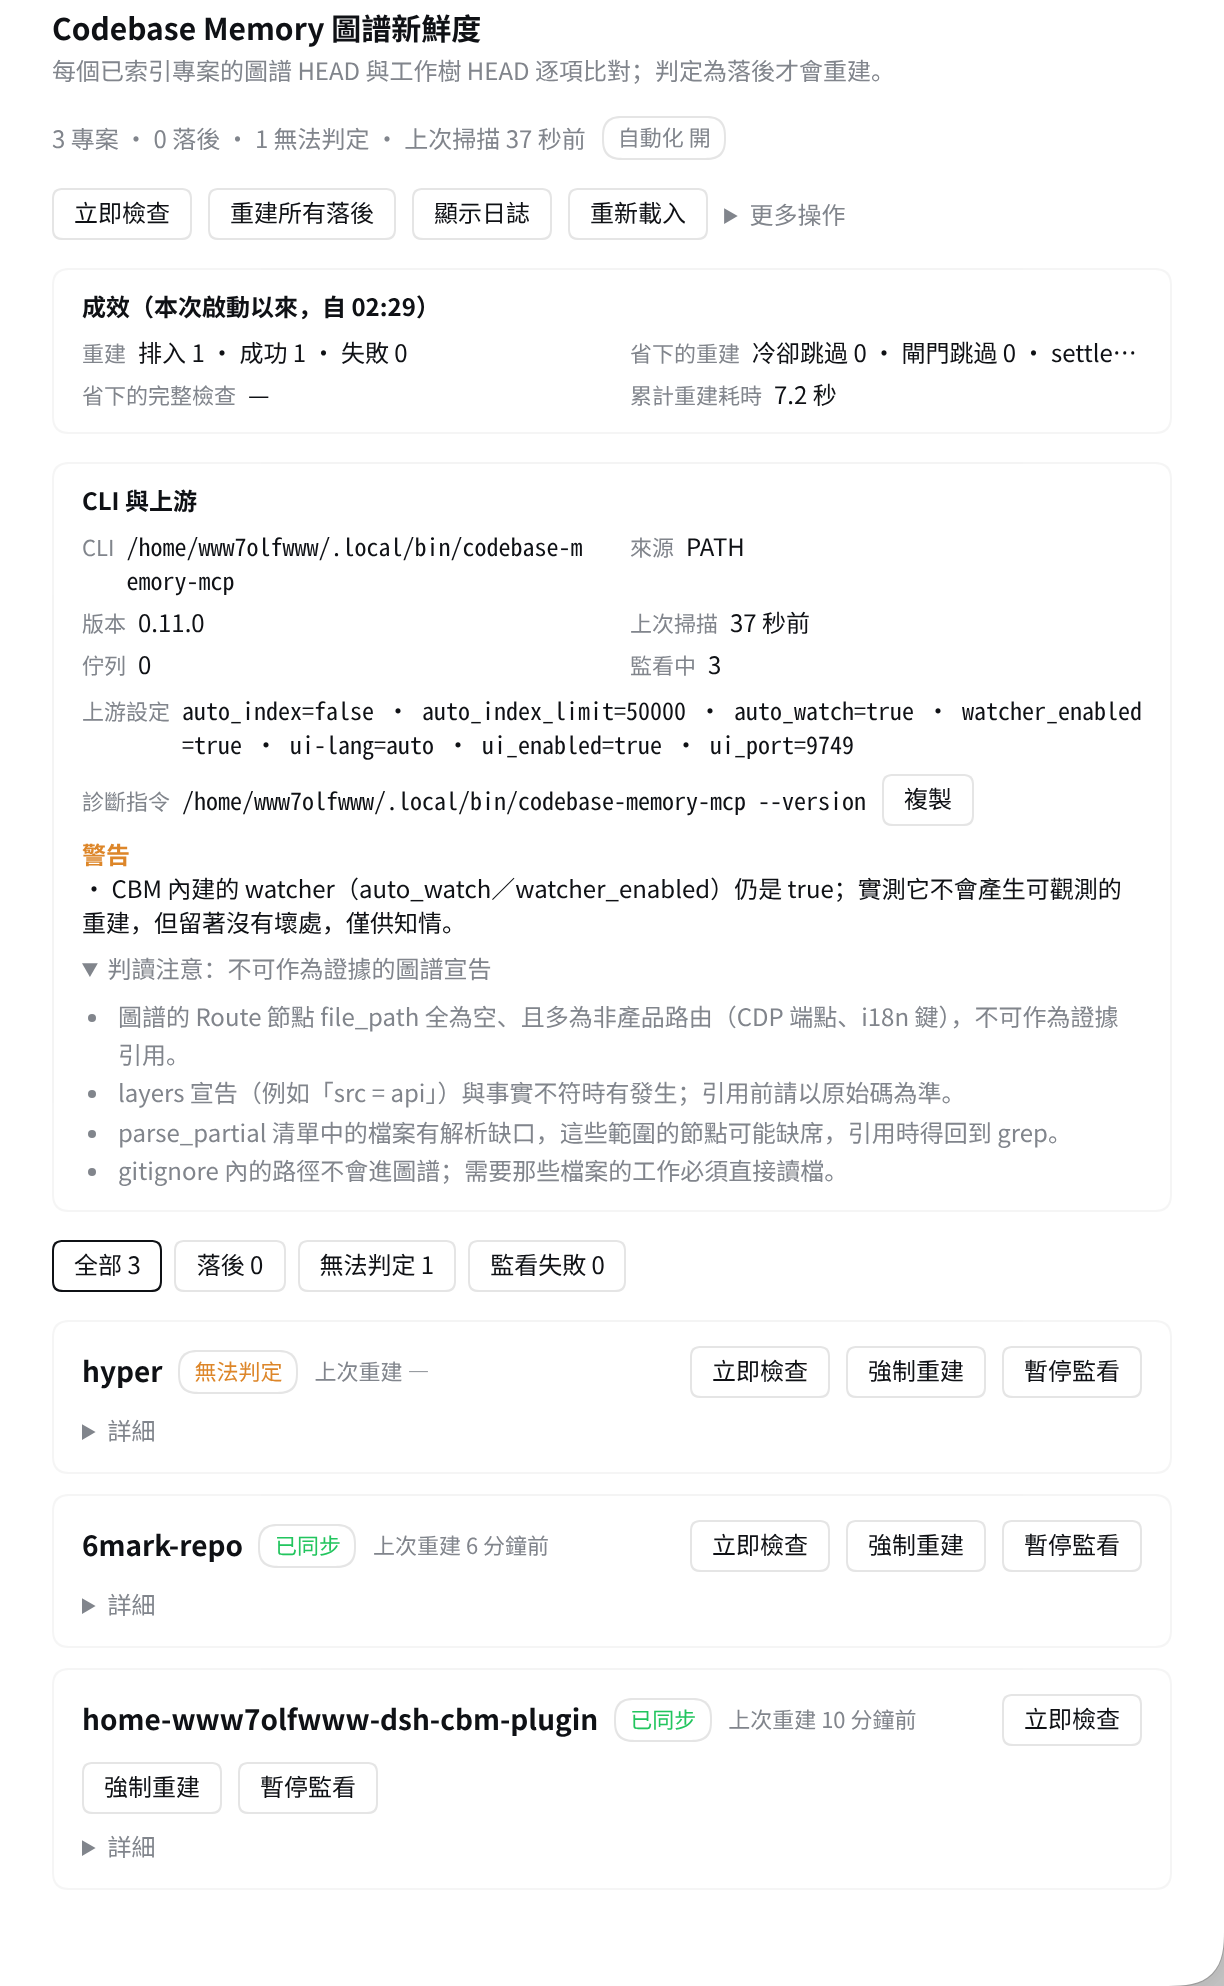
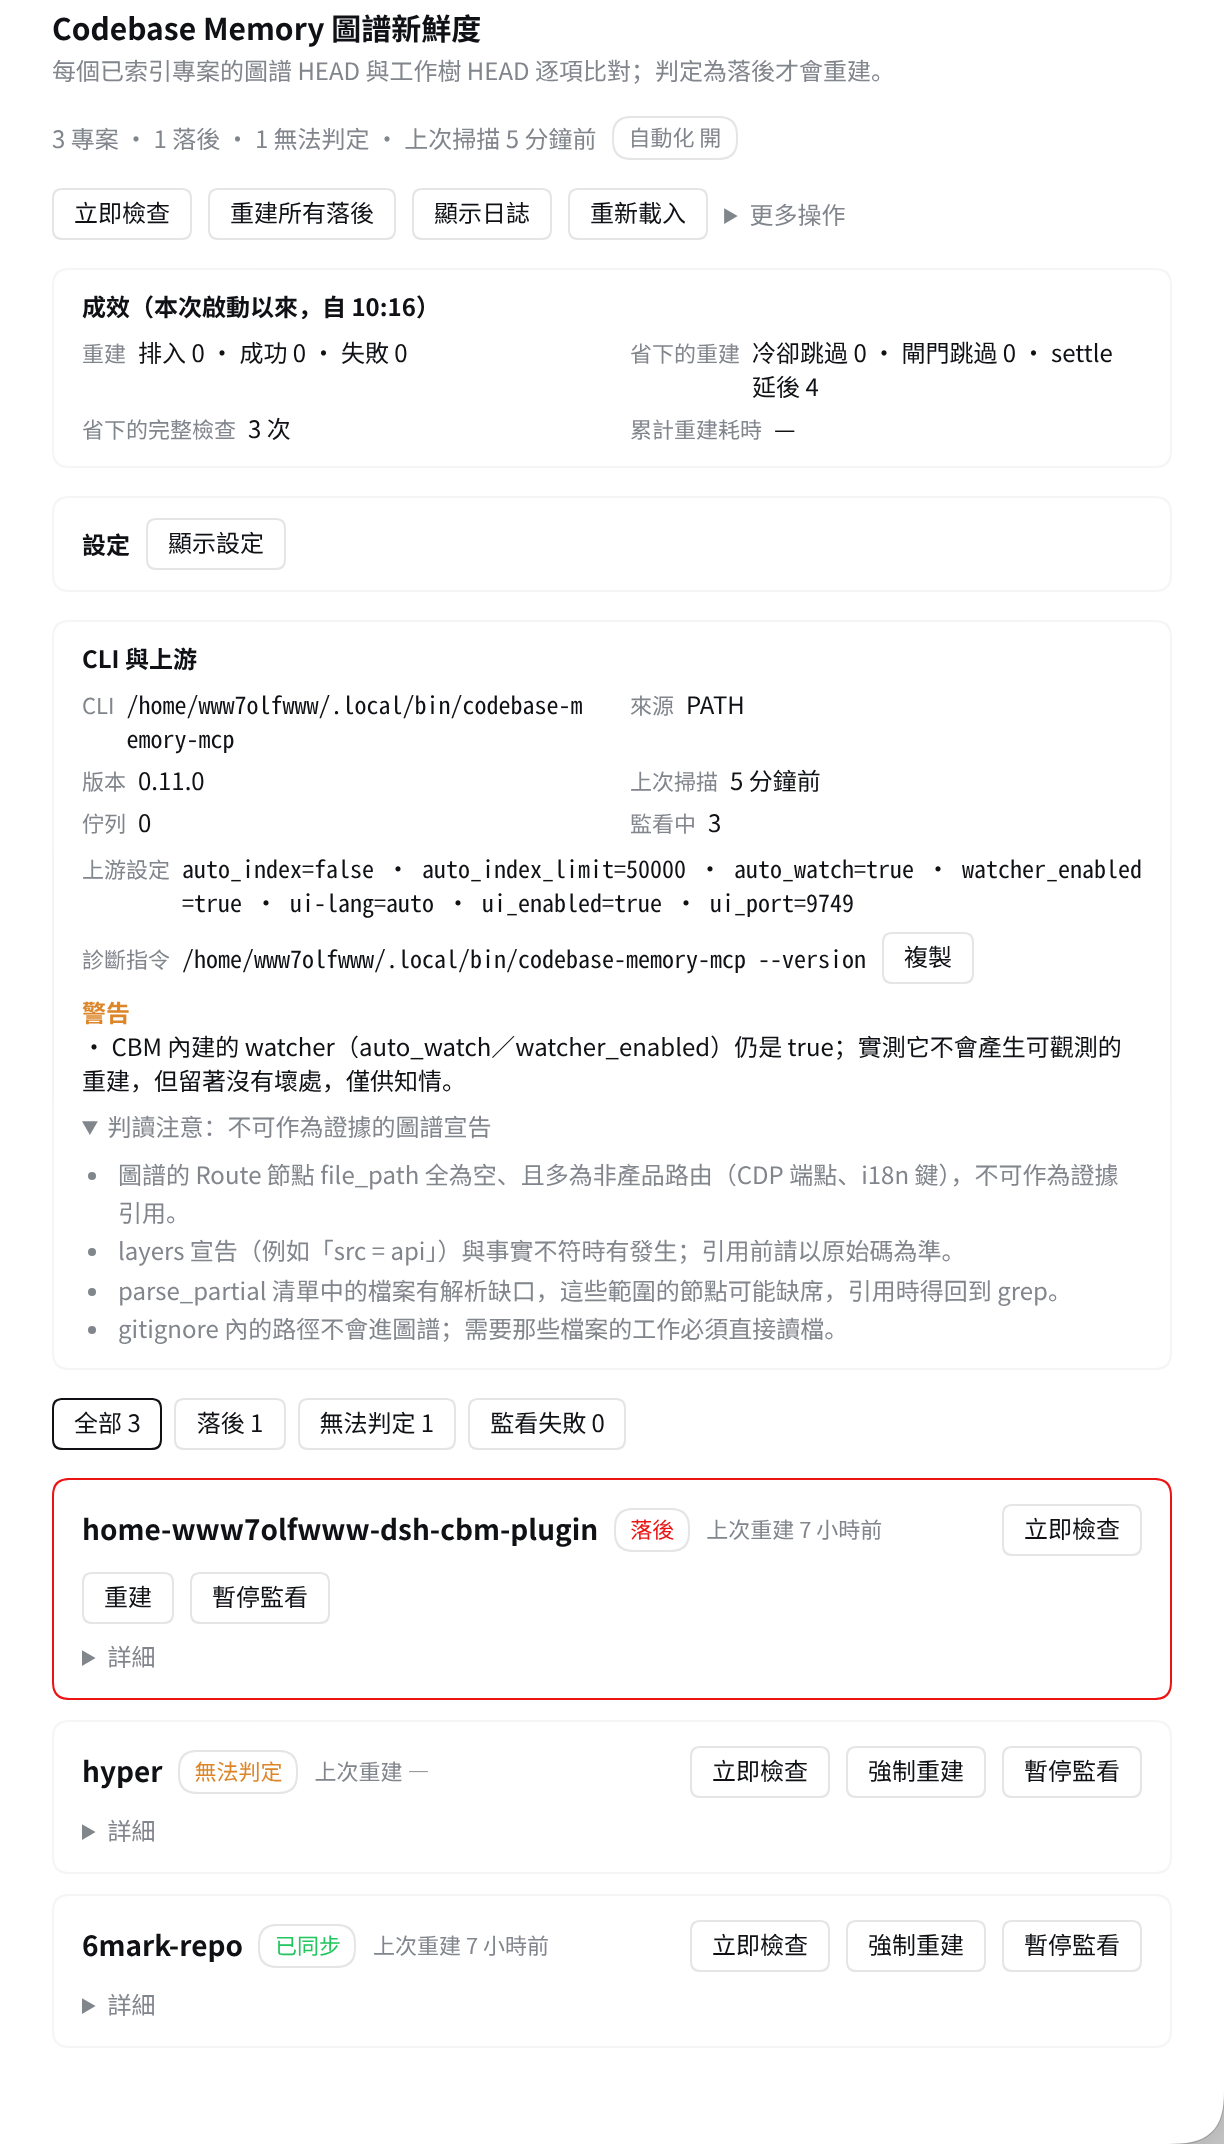
release: 0.5.1 — 設定區塊的說明指出「去哪裡改」，並補上展開狀態的截圖
使用者實際回報了可發現性缺陷：卡片寫「要改值請用 DSH 的插件設定表單」，卻沒說那個
表單在哪，他直接問「那麼是要到哪里修改」。位置改為指明路徑（側邊欄「插件」→
本插件那一列的設定），並在 CHANGELOG 記下查證依據（線上 Config 條目
`dsh-codebase-watcher`／patch id `codebase-watcher`／status schema；承載 slot
`plugins.row.config`）。英文文案本來就已寫對，重拍後同尺寸同位元組數即為證據。

截圖：README 兩版各加一張設定區塊展開圖（cbm-card-settings{,-en}.png），放在
「設定」一節；hero 維持收合。展開後整張卡多 18 列、在 GitHub 欄寬下要滑好幾屏才
看得到專案列，故拆兩張。圖上狀態是真機真值（overridden 為空 → 全部「（預設）」、
無恢復鈕、全部恢復預設 disabled），沒有為了讓按鈕入鏡而改動使用者設定。
hero 兩張刻意不重拍，理由是探針實證：收合時該 hint 根本不在 DOM（hasHint:false）。

capture-card.mjs 修掉兩個會靜默失效的缺陷：parseArgs 把布林旗標寫成特例，導致新增的
--only-config 吃掉下一個參數且完全沒作用（第一次「只裁設定區塊」拍出來仍是整張卡）；
展開後沒重新量測，裁切高度停留在展開前的值而把卡片切掉。另加 --probe-height
（預設 1600）——側邊欄工作區一多，底部那列會被推出視窗，命中測試就點不到「设置」。

驗證：214/214 tests、verify-client 242/242（含一條加強過的斷言：文案必須同時出現
「插件」與「設定」，避免再被改回模糊版本）、35 個 README 連結全部有效、
發佈包 133,310 bytes / 28 檔未含 docs/assets、獨立探針確認 GUI 語言仍為中文。

diff --git a/CHANGELOG.md b/CHANGELOG.md
@@ -5,6 +5,42 @@
 
 ## [Unreleased]
 
+## [0.5.1] - 2026-10-07
+
+> 這一版只修一個可發現性缺陷：設定區塊的說明**只說「用 DSH 的插件設定表單」，
+> 卻沒說那個表單在哪**。使用者實際回報了這件事——「那麼是要到哪里修改」。
+
+### Fixed
+
+- **設定區塊的說明現在指出確切位置**：改為「要改值請到側邊欄『插件』→ 本插件那一列的
+  設定，那裡由 DSH 依 schema 自動產生表單」。原本那句等於叫使用者去一個沒給座標的地方。
+  位置是查證來的、不是推測：線上 Config 條目為 `dsh-codebase-watcher`（patch id
+  `codebase-watcher`，`status: schema`），承載它的 slot 是 `plugins.row.config`，
+  官方描述寫明「the row on the bundle's page gains a configure control that opens the
+  entry's page」。英文文案本來就已寫對（`row under Plugins in the sidebar`），
+  這一版只是讓中文追上——重拍後英文那張**同尺寸、同位元組數**，即為此事的證據。
+- `docs/assets/capture-card.mjs` 兩個會**靜默失效**的缺陷：`parseArgs` 把布林旗標寫成
+  特例，導致新增的 `--only-config` 會吃掉下一個參數且完全沒作用（第一次「只裁設定區塊」
+  拍出來仍是整張卡）；展開後沒有重新量測，裁切高度停留在展開前的值而把卡片切掉。
+  另把探針視窗高度從寫死的 1000 改為 `--probe-height`（預設 1600）——側邊欄工作區一多，
+  底部那一列會被推出視窗，命中測試就點不到「设置」。
+
+### Changed
+
+- README 中英兩版各加一張**設定區塊展開**的截圖（`docs/assets/cbm-card-settings.png` /
+  `-settings-en.png`），放在「設定」一節；hero 維持收合狀態。展開後整張卡會多出 18 列、
+  在 GitHub 的欄寬下要滑好幾屏才看得到專案列，所以拆成兩張而不是塞進同一張。
+  圖上是**真機真值**：`overridden` 為空，所以 18 列全部標「（預設）」、沒有任何單欄
+  恢復鈕、「全部恢復預設」是停用的——沒有為了讓按鈕入鏡而改動使用者的設定。
+  hero 兩張**刻意不重拍**，理由是實證而非目測：探針顯示收合狀態下那句 hint
+  `hasHint: false`（根本不在 DOM 裡），hero 不可能拍到它。
+
+### 驗證
+
+- 單元測試 214/214；`tools/verify-client.mjs` 242/242——含一條**加強過的**斷言：
+  文案必須同時出現「插件」與「設定」，避免它再被改回模糊版本。
+- 獨立探針確認 GUI 語言仍為中文。
+
 ## [0.5.0] - 2026-10-07
 
 > 這一版把「讓使用者自行決定」補成完整的三件套：**選項 ＋ 預設值 ＋ 重置**。
@@ -280,7 +316,8 @@
 - 單元測試 115 項，`node --test test/*.test.js` 全綠，不需要真的索引；CI 在 Node 20／22／24
   與「有／沒有 chokidar」六種組合上跑，且在沒有安裝 DSH 的機器上也能全綠（解析路徑用夾具驗證）。
 
-[Unreleased]: https://github.com/WwW7olFWwW/dsh-codebase-watcher/compare/v0.5.0...HEAD
+[Unreleased]: https://github.com/WwW7olFWwW/dsh-codebase-watcher/compare/v0.5.1...HEAD
+[0.5.1]: https://github.com/WwW7olFWwW/dsh-codebase-watcher/releases/tag/v0.5.1
 [0.5.0]: https://github.com/WwW7olFWwW/dsh-codebase-watcher/releases/tag/v0.5.0
 [0.4.0]: https://github.com/WwW7olFWwW/dsh-codebase-watcher/releases/tag/v0.4.0
 [0.3.0]: https://github.com/WwW7olFWwW/dsh-codebase-watcher/releases/tag/v0.3.0

diff --git a/README.en.md b/README.en.md
@@ -117,6 +117,8 @@ The full comparison is in section 7 of [`docs/REQUIREMENTS.md`](docs/REQUIREMENT
 
 18 tunable fields and 7 REST routes: [`docs/CONFIGURATION.md`](docs/CONFIGURATION.md). Field changes take effect immediately, no restart, and defaults are one click away (only the fields you changed are cleared).
 
+![The settings block expanded: all 18 writable fields with their current values, each marked "(default)" while unchanged; "Reset all to defaults" stays disabled when nothing is overridden](docs/assets/cbm-card-settings-en.png)
+
 State lives in `~/.dsh/codebase-watcher/state.json` and the log in `~/.dsh/codebase-watcher/keeper.log`. Read-only query: `curl -s http://127.0.0.1:3080/api/codebase-watcher/state`.
 
 ## Known limitations

diff --git a/README.md b/README.md
@@ -117,6 +117,8 @@ codebase-memory-mcp config set auto_index false
 
 18 個可調欄位與 7 條 REST 路由：[`docs/CONFIGURATION.md`](docs/CONFIGURATION.md)。欄位改完立刻生效，不用重啟；改壞了可以一鍵恢復預設（只清掉你改過的那些）。
 
+![設定區塊展開後：18 個可寫欄位與目前值，沒被改過的一律標「（預設）」；沒有任何覆寫時「全部恢復預設」是停用的](docs/assets/cbm-card-settings.png)
+
 狀態檔在 `~/.dsh/codebase-watcher/state.json`，日誌在 `~/.dsh/codebase-watcher/keeper.log`；唯讀查詢：`curl -s http://127.0.0.1:3080/api/codebase-watcher/state`。
 
 ## 已知限制
